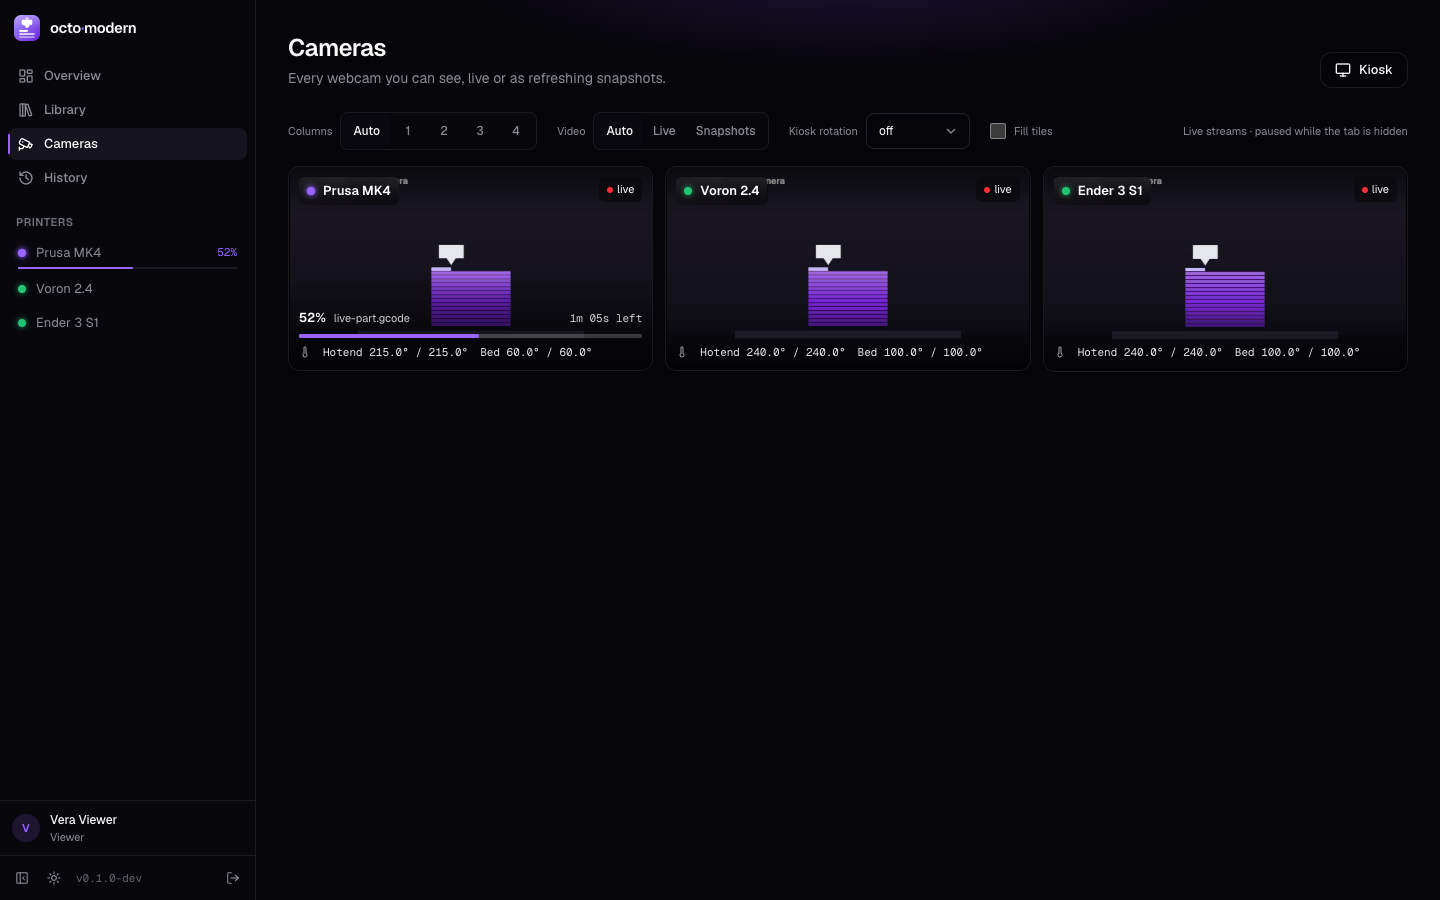
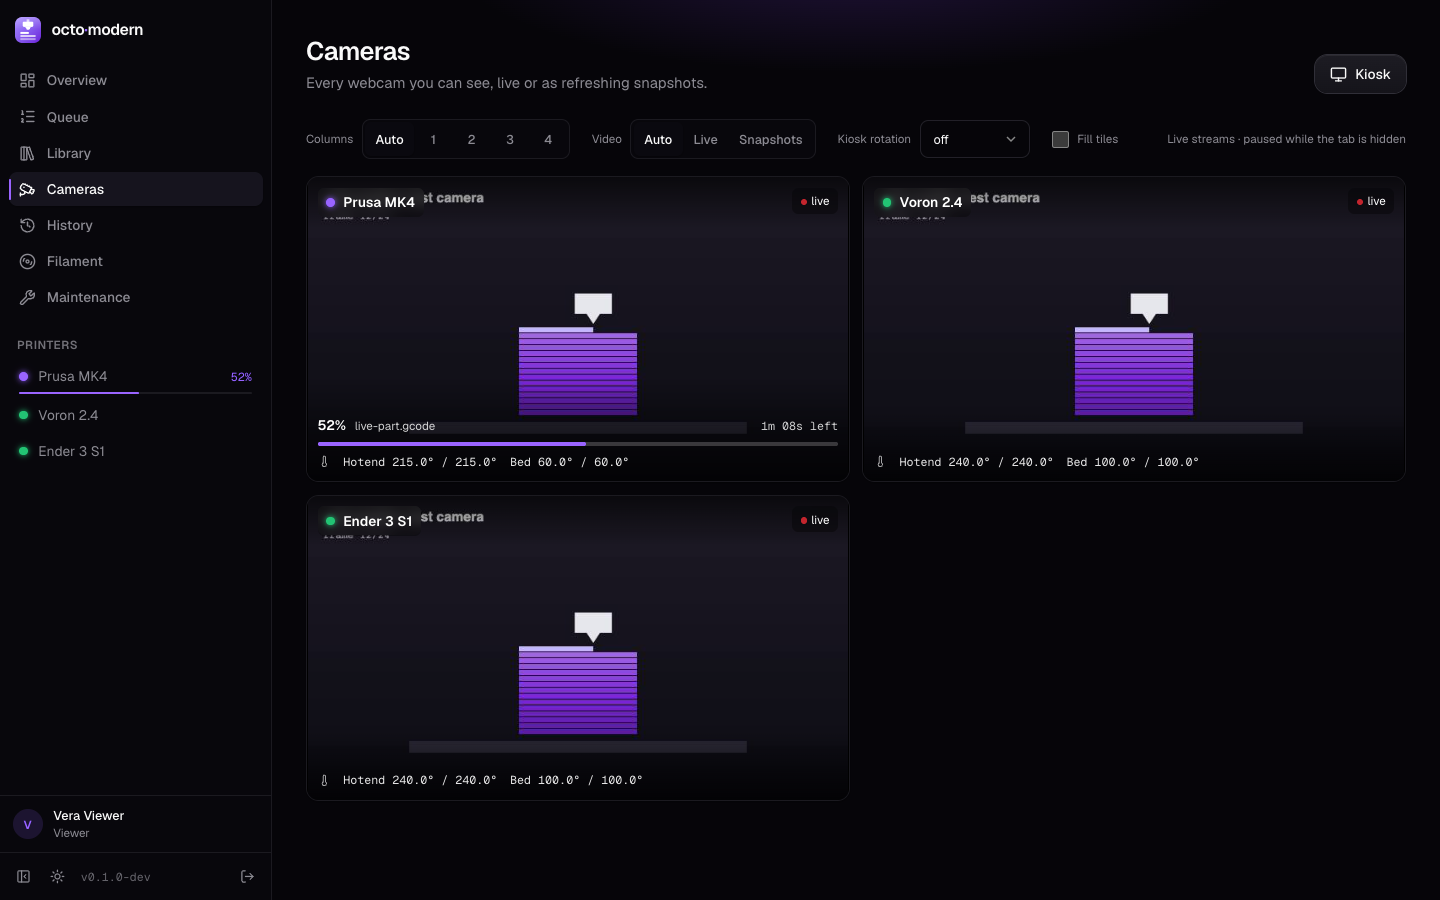
G-code preview and camera wall: final e2e fixes, screenshots, README numbers
Claude-Session: https://claude.ai/code/session_01VYYm8sXoCeympBHRdWuxtT

diff --git a/README.md b/README.md
@@ -652,7 +652,7 @@ pnpm e2e:notify                       # notifications: every channel type agains
 pnpm e2e:mobile                       # phones: no sideways scrolling at 360/390/430 px, thumb-sized controls
 ```
 
-`scripts/dev-octoprint.sh` starts `octoprint/octoprint` containers with the built-in Virtual Printer enabled, the first-run wizard skipped and an admin user (`admin` / `octoprint-dev`) whose API key is `ocm-dev-key-<n>`; `env` prints their URLs and keys, `down` removes them. `pnpm e2e` builds the app, starts two such servers and the fake webcam, and drives octo·modern over HTTP and in Chromium: setup, adding servers, live temperatures over SSE, roles, uploads (including a 200 MB one, checking memory), printing, pausing, resuming and cancelling, webcam streaming and cleanup. It writes the screenshots in `docs/screenshots/` and removes its containers afterwards. `pnpm e2e:history` prints files to completion and cancels others on two virtual printers, with and without a browser watching, and checks the history entries (results, durations, who started them, pictures), the webhook notifications, CSV export, import, and the timelapses OctoPrint renders from the test camera (listing, Range requests, playback with seeking, download, delete, settings). Ports: `E2E_APP_PORT`, `E2E_OP_PORT_BASE`, `E2E_CAM_PORT`; `E2E_OP_PREFIX` names the containers (for both e2e scripts). `pnpm e2e:notify` (app `:3200`, OctoPrint `:3201`, camera `:3202`, mock services `:3204` HTTP and `:3205` SMTP) sets up one channel of every type against `scripts/e2e/mock-notify.mjs` (nothing real is contacted), sends tests including failing ones, prints on a virtual printer and checks the started, 50 %, finished (with snapshots: attachments, the shared link), still-hot, paused-by-M0, paused-by-the-operator and cancelled-by messages, offline and back by stopping the container, quiet hours, the delivery log and a backup round trip, then writes the `notifications*.png` screenshots. `pnpm e2e:mobile` (app `:3180`, OctoPrint `:5161`–`:5162`, camera `:5261`; same variables) opens every main page as an iPhone-sized touch screen at 360, 390 and 430 px and fails if anything sticks out sideways or a text field is under 16 px, then checks the drawer, the job bar and emergency-stop confirmation, the tab strip, the file list and its menu, the jog pad, the terminal prompt, the library and history sheets and the web app manifest, and writes the `mobile-*.png` screenshots. `pnpm e2e:power` (ports `:3230`–`:3236`) needs no Docker: it runs two mock OctoPrint servers powered by a mock Shelly Gen2 (Digest login) and a mock Tasmota, and checks plug setup and tests (admins only, sealed passwords), power-on with auto-connect, the hot and printing confirmations (in Chromium too), auto power-on for a print, the auto power-off countdown with Keep on and cancelling, the webhooks, the audit log and a 390 px phone, then writes the `power*.png` screenshots. The adapters are unit-tested against the same mocks (`scripts/e2e/mock-plugs.mjs`); nothing contacts a real device. The home-screen icons in `static/` are rendered from the logo by `node scripts/pwa-icons.mjs`.
+`scripts/dev-octoprint.sh` starts `octoprint/octoprint` containers with the built-in Virtual Printer enabled, the first-run wizard skipped and an admin user (`admin` / `octoprint-dev`) whose API key is `ocm-dev-key-<n>`; `env` prints their URLs and keys, `down` removes them. `pnpm e2e` builds the app, starts two such servers and the fake webcam, and drives octo·modern over HTTP and in Chromium: setup, adding servers, live temperatures over SSE, roles, uploads (including a 200 MB one, checking memory), printing, pausing, resuming and cancelling, webcam streaming and cleanup. It writes the screenshots in `docs/screenshots/` and removes its containers afterwards. `pnpm e2e:history` prints files to completion and cancels others on two virtual printers, with and without a browser watching, and checks the history entries (results, durations, who started them, pictures), the webhook notifications, CSV export, import, and the timelapses OctoPrint renders from the test camera (listing, Range requests, playback with seeking, download, delete, settings). Ports: `E2E_APP_PORT`, `E2E_OP_PORT_BASE`, `E2E_CAM_PORT`; `E2E_OP_PREFIX` names the containers (for both e2e scripts). `pnpm e2e:notify` (app `:3200`, OctoPrint `:3201`, camera `:3202`, mock services `:3204` HTTP and `:3205` SMTP) sets up one channel of every type against `scripts/e2e/mock-notify.mjs` (nothing real is contacted), sends tests including failing ones, prints on a virtual printer and checks the started, 50 %, finished (with snapshots: attachments, the shared link), still-hot, paused-by-M0, paused-by-the-operator and cancelled-by messages, offline and back by stopping the container, quiet hours, the delivery log and a backup round trip, then writes the `notifications*.png` screenshots. `pnpm e2e:mobile` (app `:3180`, OctoPrint `:5161`–`:5162`, camera `:5261`; same variables) opens every main page as an iPhone-sized touch screen at 360, 390 and 430 px and fails if anything sticks out sideways or a text field is under 16 px, then checks the drawer, the job bar and emergency-stop confirmation, the tab strip, the file list and its menu, the jog pad, the terminal prompt, the library and history sheets and the web app manifest, and writes the `mobile-*.png` screenshots. `pnpm e2e:power` (ports `:3230`–`:3236`) needs no Docker: it runs two mock OctoPrint servers powered by a mock Shelly Gen2 (Digest login) and a mock Tasmota, and checks plug setup and tests (admins only, sealed passwords), power-on with auto-connect, the hot and printing confirmations (in Chromium too), auto power-on for a print, the auto power-off countdown with Keep on and cancelling, the webhooks, the audit log and a 390 px phone, then writes the `power*.png` screenshots. The adapters are unit-tested against the same mocks (`scripts/e2e/mock-plugs.mjs`); nothing contacts a real device. `pnpm e2e:viewer` (app `:3250`, OctoPrint `:3251`–`:3252`, camera `:3253`) writes synthetic slicer-flavoured G-code (`node scripts/gcode-samples.mjs <dir> [--big MB]`: PrusaSlicer, Cura, OrcaSlicer with arcs, and comment-free files) plus a ~100 MB file (`E2E_BIG_MB`), checks the download routes (ranges, traversal, sign-in, no key in responses), previews printer and library files as a viewer (layers, legend, slider, keyboard, orbit, the 2D layer view), times the big file, follows a live print on a virtual printer and cross-checks the layer against OctoPrint's `filepos`, then checks the camera wall: live streams vs. snapshots, streams closing while the tab is hidden and while one camera is full screen, kiosk mode (whole window, cursor hiding, wake lock, rotation, bookmarkable URL) and one column at 390 px; it writes the `gcode-*.png`, `cameras*.png`, `mobile-gcode-preview.png` and `mobile-cameras.png` screenshots. It runs the full Chromium build so WebGL uses the real GPU (`E2E_SOFTWARE_GL=1` for SwiftShader). Measured on an Apple M4 with the 101 MB file (3.57 million moves, 784 layers): downloaded and parsed in about 0.6 s from a folder library and 0.9–1.4 s through OctoPrint (it runs on the same machine, in Docker), kept as 1.6 million points (39 MB JS heap); a full frame of 1.6 million segments draws within a 60 Hz frame, and orbiting stays at 60 fps. With a phone's budget (390 px touch emulation) it loads in about 0.6 s as 0.96 million points and 22 MB of heap. The home-screen icons in `static/` are rendered from the logo by `node scripts/pwa-icons.mjs`.
 
 `pnpm e2e:discover` starts three OctoPrint servers on `:5151`–`:5153` and has octo·modern discover them through a mock Docker API (fictional containers, devices and networks pointing at the real ports, on `:5251`), a mock Arcane (`:5252`), a unicast mDNS responder (`OCM_MDNS_TARGET=127.0.0.1:5253`), the real local Docker socket (read-only) and a subnet scan of `127.0.0.1`. It runs the setup wizard in Chromium, adds printers through the Application Keys flow (approving and denying in OctoPrint by logging in to its API as its admin), pastes a key, moves a published port and relinks the saved printer, then writes the Discover screenshots and cleans up.
 
